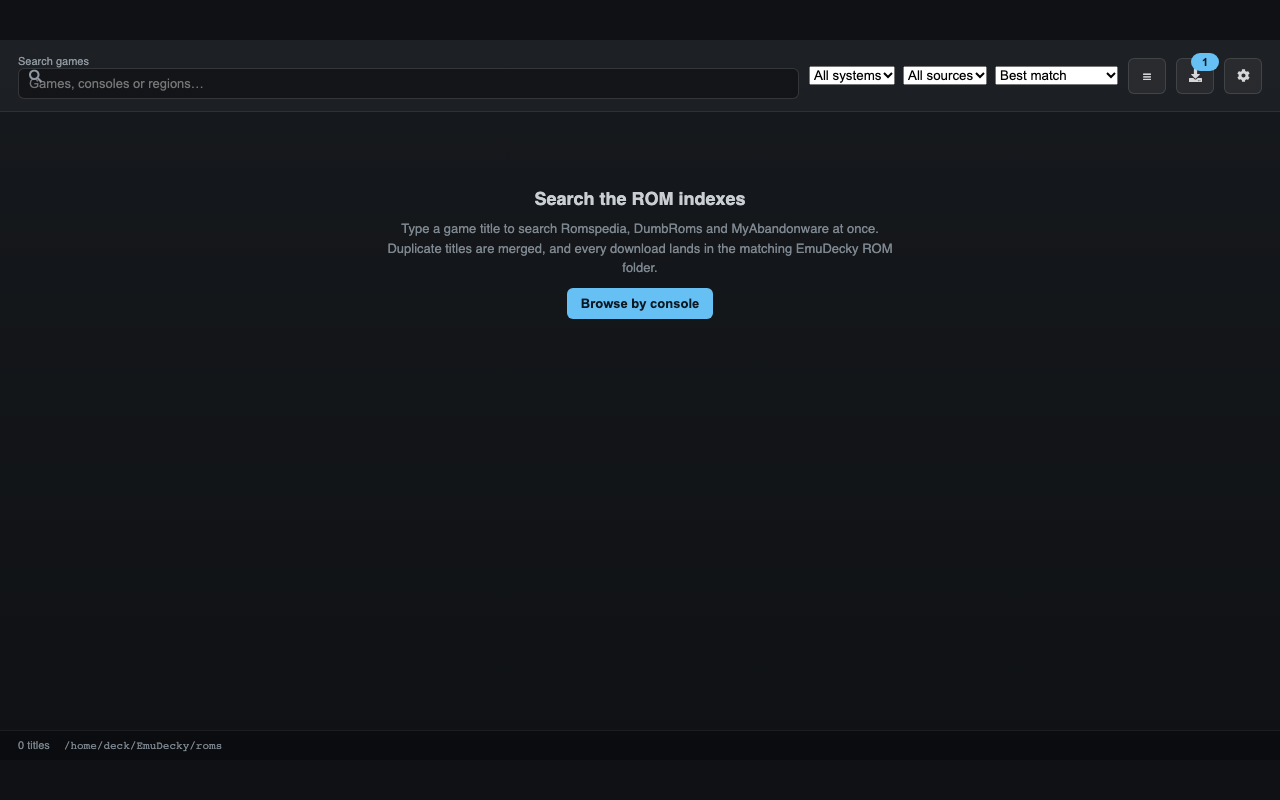
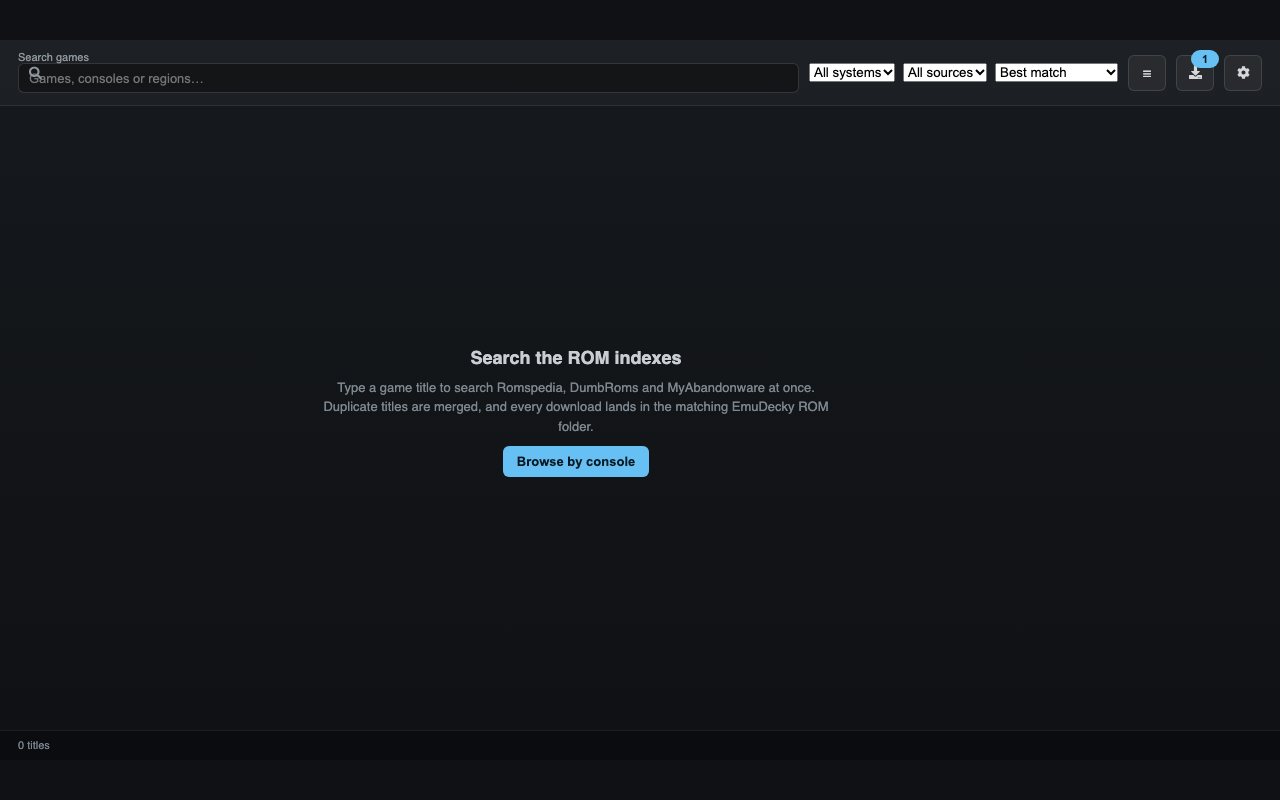
Compact header, single line footer, Decky dropdowns everywhere, IGDB ratings and artwork

diff --git a/src/components/RomDetail.tsx b/src/components/RomDetail.tsx
@@ -8,6 +8,7 @@ import {
   RomEntry,
   RomFile,
 } from "../types";
+import { Dropdown } from "@decky/ui";
 import { formatBytes, formatCount, SOURCE_LABELS, systemLabel } from "./common";
 import CoverImage from "./CoverImage";
 
@@ -97,7 +98,7 @@ const RomDetail: FC<Props> = ({ rom, library, onClose, onStarted }) => {
             <div>
               {primary?.cover_full || rom.cover ? (
                 <div
-                  className="rs-detail-cover"
+                  className="rs-detail-cover rs-detail-cover-sm"
                   style={
                     (primary?.cover_full ?? rom.cover)
                       ? ({ ["--rs-cover" as string]: `url(${primary?.cover_full ?? rom.cover})` } as CSSProperties)
@@ -111,13 +112,12 @@ const RomDetail: FC<Props> = ({ rom, library, onClose, onStarted }) => {
               )}
               <div className="rs-form-row" style={{ marginTop: 12, flexDirection: "column", alignItems: "stretch" }}>
                 <label style={{ flex: "0 0 auto" }}>Save into</label>
-                <select value={target} onChange={(event) => setTarget(event.target.value)}>
-                  {systems.map((item) => (
-                    <option key={item.key} value={item.key}>
-                      {item.label}
-                    </option>
-                  ))}
-                </select>
+                <Dropdown
+                  rgOptions={systems.map((item) => ({ label: item.label, data: item.key }))}
+                  selectedOption={target}
+                  onChange={(option) => setTarget(option.data)}
+                  menuLabel="System"
+                />
                 <div className="rs-hint rs-path">{destination}</div>
               </div>
             </div>
@@ -141,7 +141,6 @@ const RomDetail: FC<Props> = ({ rom, library, onClose, onStarted }) => {
                 {rom.year ? <span className="rs-pill">{rom.year}</span> : null}
               </div>
 
-              {primary?.summary ? <p style={{ color: "#9aa4ad", fontSize: 12, marginTop: 0 }}>{primary.summary}</p> : null}
               {primary?.developer || primary?.publisher ? (
                 <div className="rs-meta" style={{ marginBottom: 10 }}>
                   {primary.developer ? <span className="rs-pill">{primary.developer}</span> : null}
@@ -154,7 +153,6 @@ const RomDetail: FC<Props> = ({ rom, library, onClose, onStarted }) => {
                 </div>
               ) : null}
 
-              <div className="rs-section-title">Available files</div>
               {loading && (
                 <div className="rs-loading">
                   <div className="rs-spinner" /> Resolving download links…

diff --git a/src/styles.ts b/src/styles.ts
@@ -31,17 +31,10 @@ export const CSS = `
 }
 
 .rs-search-wrap { flex: 1 1 200px; min-width: 140px; position: relative; }
-.rs-search-wrap input {
-  width: 100%;
-  box-sizing: border-box;
-  padding: 9px 12px 9px 34px;
-  border-radius: 6px;
-  border: 1px solid rgba(255, 255, 255, 0.12);
-  background: rgba(0, 0, 0, 0.35);
-  color: #fff;
-  font-size: 14px;
-  outline: none;
-}
+/* Steam's TextField carries a floating label - shrink it for the header. */
+.rs-search-wrap > * { margin: 0 !important; }
+.rs-search-wrap label { font-size: 8.5px !important; line-height: 1 !important; margin-bottom: 1px !important; }
+.rs-search-wrap input { height: 28px !important; padding-top: 2px !important; padding-bottom: 2px !important; font-size: 13px !important; }
 .rs-search-wrap input:focus { border-color: #66c0f4; }
 .rs-search-icon {
   position: absolute; left: 11px; top: 50%; transform: translateY(-50%);
@@ -236,7 +229,7 @@ export const CSS = `
 .rs-panel-head h3 { margin: 0; font-size: 16px; color: #fff; }
 .rs-panel-body { padding: 16px 18px; overflow-y: auto; }
 
-.rs-detail-grid { display: grid; grid-template-columns: 240px 1fr; gap: 18px; }
+.rs-detail-grid { display: grid; grid-template-columns: 190px 1fr; gap: 16px; }
 .rs-detail-cover {
   position: relative;
   aspect-ratio: 3/4; width: 100%; background: #05070a;
@@ -252,6 +245,7 @@ export const CSS = `
   opacity: 0.7;
 }
 .rs-detail-cover img { position: relative; width: 100%; height: 100%; object-fit: cover; }
+.rs-detail-cover-sm { max-width: 190px; }
 .rs-detail-cover-placeholder {
   aspect-ratio: 3/4; width: 100%; background: #05070a; border-radius: 8px;
   display: flex; align-items: center; justify-content: center; font-size: 48px; color: rgba(255,255,255,0.1); font-weight: 800;
@@ -323,6 +317,7 @@ export const CSS = `
 }
 
 .rs-main.is-loading { display: flex; align-items: center; justify-content: center; }
+.rs-main.is-empty { overflow: hidden; display: flex; align-items: center; justify-content: center; }
 .rs-loading {
   display: flex; flex-direction: column; align-items: center; justify-content: center;
   gap: 12px; padding: 60px; color: #8b949d; text-align: center;

diff --git a/src/components/SettingsModal.tsx b/src/components/SettingsModal.tsx
@@ -1,5 +1,5 @@
 import { FC, useEffect, useState } from "react";
-import { TextField } from "@decky/ui";
+import { Dropdown, TextField } from "@decky/ui";
 import { toaster } from "@decky/api";
 import { getLibrary, getSettings, LibraryInfo, Settings, updateSettings } from "../types";
 import { SOURCE_LABELS } from "./common";
@@ -99,19 +99,17 @@ const SettingsModal: FC<Props> = ({ onClose, onSaved }) => {
           </div>
           <div className="rs-form-row">
             <label>Detected folders</label>
-            <select
-              value=""
-              onChange={(event) => {
-                if (event.target.value) setCustomRoot(event.target.value);
+            <Dropdown
+              rgOptions={[
+                { label: "Select a detected location…", data: "" },
+                ...candidates.map((path) => ({ label: path, data: path })),
+              ]}
+              selectedOption=""
+              onChange={(option) => {
+                if (option.data) setCustomRoot(option.data);
               }}
-            >
-              <option value="">Select a detected location…</option>
-              {candidates.map((path) => (
-                <option key={path} value={path}>
-                  {path}
-                </option>
-              ))}
-            </select>
+              menuLabel="Detected folders"
+            />
           </div>
           <div className="rs-form-row">
             <div className="rs-hint">
@@ -180,6 +178,10 @@ const SettingsModal: FC<Props> = ({ onClose, onSaved }) => {
               onChange={(event) => update({ igdb_client_id: event.target.value })}
               placeholder="optional"
             />
+          </div>
+          <div className="rs-form-row">
+            <label>Replace all artwork</label>
+            <Toggle on={settings.igdb_replace_covers !== false} onChange={(value) => update({ igdb_replace_covers: value })} />
           </div>
           <div className="rs-form-row">
             <label>IGDB client secret</label>

diff --git a/src/components/Store.tsx b/src/components/Store.tsx
@@ -271,7 +271,11 @@ const Store: FC = () => {
         </button>
       </div>
 
-      <div className={`rs-main${loading && results.length === 0 ? " is-loading" : ""}`}>
+      <div
+        className={`rs-main${loading && results.length === 0 ? " is-loading" : ""}${
+          !loading && results.length === 0 ? " is-empty" : ""
+        }`}
+      >
         {loading && results.length === 0 ? (
           <div className="rs-loading">
             <div className="rs-spinner" /> Searching…
@@ -319,16 +323,19 @@ const Store: FC = () => {
       </div>
 
       <div className="rs-footer">
-        <span>{results.length} titles</span>
-        {Object.entries(sourceCounts).map(([id, count]) => (
-          <span key={id}>
-            {SOURCE_LABELS[id] ?? id}: {count}
-          </span>
-        ))}
-        <span className="rs-path">{settings?.roms_root || library?.root || ""}</span>
+        <span className="rs-count">
+          {results.length} titles
+          {Object.entries(sourceCounts)
+            .map(([id, count]) => ` · ${SOURCE_LABELS[id] ?? id} ${count}`)
+            .join("")}
+        </span>
         {Object.keys(errors).length > 0 && (
-          <button className="rs-issues" onClick={() => setShowIssues((value) => !value)}>
-            ⚠ {Object.keys(errors).length} source{Object.keys(errors).length === 1 ? "" : "s"} unavailable
+          <button
+            className="rs-issues rs-issues-icon"
+            title={`${Object.keys(errors).length} source(s) unavailable`}
+            onClick={() => setShowIssues((value) => !value)}
+          >
+            ⚠
           </button>
         )}
       </div>

diff --git a/src/types.ts b/src/types.ts
@@ -125,6 +125,7 @@ export interface Settings {
   show_nsfw: boolean;
   chrome_top_offset: number;
   chrome_bottom_offset: number;
+  igdb_replace_covers: boolean;
   igdb_client_id: string;
   igdb_client_secret: string;
 }

diff --git a/backend/covers.py b/backend/covers.py
@@ -89,8 +89,8 @@ class IgdbCovers:
         return self._token
 
     # ------------------------------------------------------------------ lookup
-    async def lookup(self, title: str) -> Optional[str]:
-        """Return an IGDB cover URL for a game title, if one is known."""
+    async def lookup(self, title: str) -> Optional[Dict[str, Any]]:
+        """Return the IGDB art and rating for a game title, if known."""
         if not self.enabled or not title:
             return None
         key = title.strip().lower()
@@ -111,7 +111,7 @@ class IgdbCovers:
             return None
 
         body = (
-            f'search "{query_title}"; fields name,cover.image_id; '
+            f'search "{query_title}"; fields name,cover.image_id,total_rating,rating_count; '
             f"where name ~ *\"{query_title}\"*; limit 5;"
         ).encode()
         try:
@@ -126,6 +126,8 @@ class IgdbCovers:
             return None
 
         url = None
+        rating = None
+        rating_count = None
         wanted = query_title.lower()
         for game in games:
             name = (game.get("name") or "").lower()
@@ -134,17 +136,24 @@ class IgdbCovers:
                 continue
             if name.startswith(wanted) or wanted in name:
                 url = f"{IGDB_IMAGE_BASE}{cover}.jpg"
+                rating = game.get("total_rating")
+                rating_count = game.get("rating_count")
                 break
         if url is None and games:
             cover = (games[0].get("cover") or {}).get("image_id")
             if cover:
                 url = f"{IGDB_IMAGE_BASE}{cover}.jpg"
+                rating = games[0].get("total_rating")
+                rating_count = games[0].get("rating_count")
 
-        self._memory[key] = url
+        result: Optional[Dict[str, Any]] = None
+        if url or rating:
+            result = {"cover": url, "rating": rating, "rating_count": rating_count}
+        self._memory[key] = result
         self._save_cache()
-        return url
+        return result
 
-    async def lookup_many(self, titles: List[str], limit: int = 12) -> Dict[str, Optional[str]]:
+    async def lookup_many(self, titles: List[str], limit: int = 12) -> Dict[str, Optional[Dict[str, Any]]]:
         """Look several titles up in parallel (bounded)."""
         unique: List[str] = []
         for title in titles:
@@ -160,7 +169,7 @@ class IgdbCovers:
                 return title, await self.lookup(title)
 
         results = await asyncio.gather(*(one(title) for title in unique), return_exceptions=True)
-        found: Dict[str, Optional[str]] = {}
+        found: Dict[str, Optional[Dict[str, Any]]] = {}
         for item in results:
             if isinstance(item, BaseException):
                 continue

diff --git a/backend/service.py b/backend/service.py
@@ -390,25 +390,35 @@ class StoreService:
         await self._apply_portrait_covers(roms)
         if not self.covers.enabled:
             return
-        missing: List[str] = []
+        replace = bool(self.settings.get("igdb_replace_covers", True))
+        wanted: List[str] = []
         for rom in roms:
             for entry in rom.entries:
-                if not entry.cover and entry.title not in missing:
-                    missing.append(entry.title)
-        if not missing:
+                if replace or not entry.cover:
+                    if entry.title not in wanted:
+                        wanted.append(entry.title)
+        if not wanted:
             return
         try:
-            found = await self.covers.lookup_many(missing, limit=12)
+            found = await self.covers.lookup_many(wanted, limit=12)
         except Exception:
             return
         for rom in roms:
             for entry in rom.entries:
-                if entry.cover:
+                info = found.get(entry.title)
+                if not info:
                     continue
-                url = found.get(entry.title)
-                if url:
+                url = info.get("cover")
+                if url and (replace or not entry.cover):
                     entry.cover = url
                     entry.cover_full = entry.cover_full or url
+                rating = info.get("rating")
+                if rating and not entry.rating:
+                    try:
+                        entry.rating = round(float(rating), 1)
+                        entry.rating_count = info.get("rating_count") or entry.rating_count
+                    except (TypeError, ValueError):
+                        pass
 
     async def _apply_portrait_covers(self, roms: List[MergedRom]) -> None:
         """Give Switch games the portrait box art from the cover index."""

diff --git a/backend/settings.py b/backend/settings.py
@@ -26,6 +26,7 @@ DEFAULTS: Dict[str, Any] = {
     "show_nsfw": False,
     "chrome_top_offset": 0,
     "chrome_bottom_offset": 0,
+    "igdb_replace_covers": True,
     "igdb_client_id": "",
     "igdb_client_secret": "",
 }
